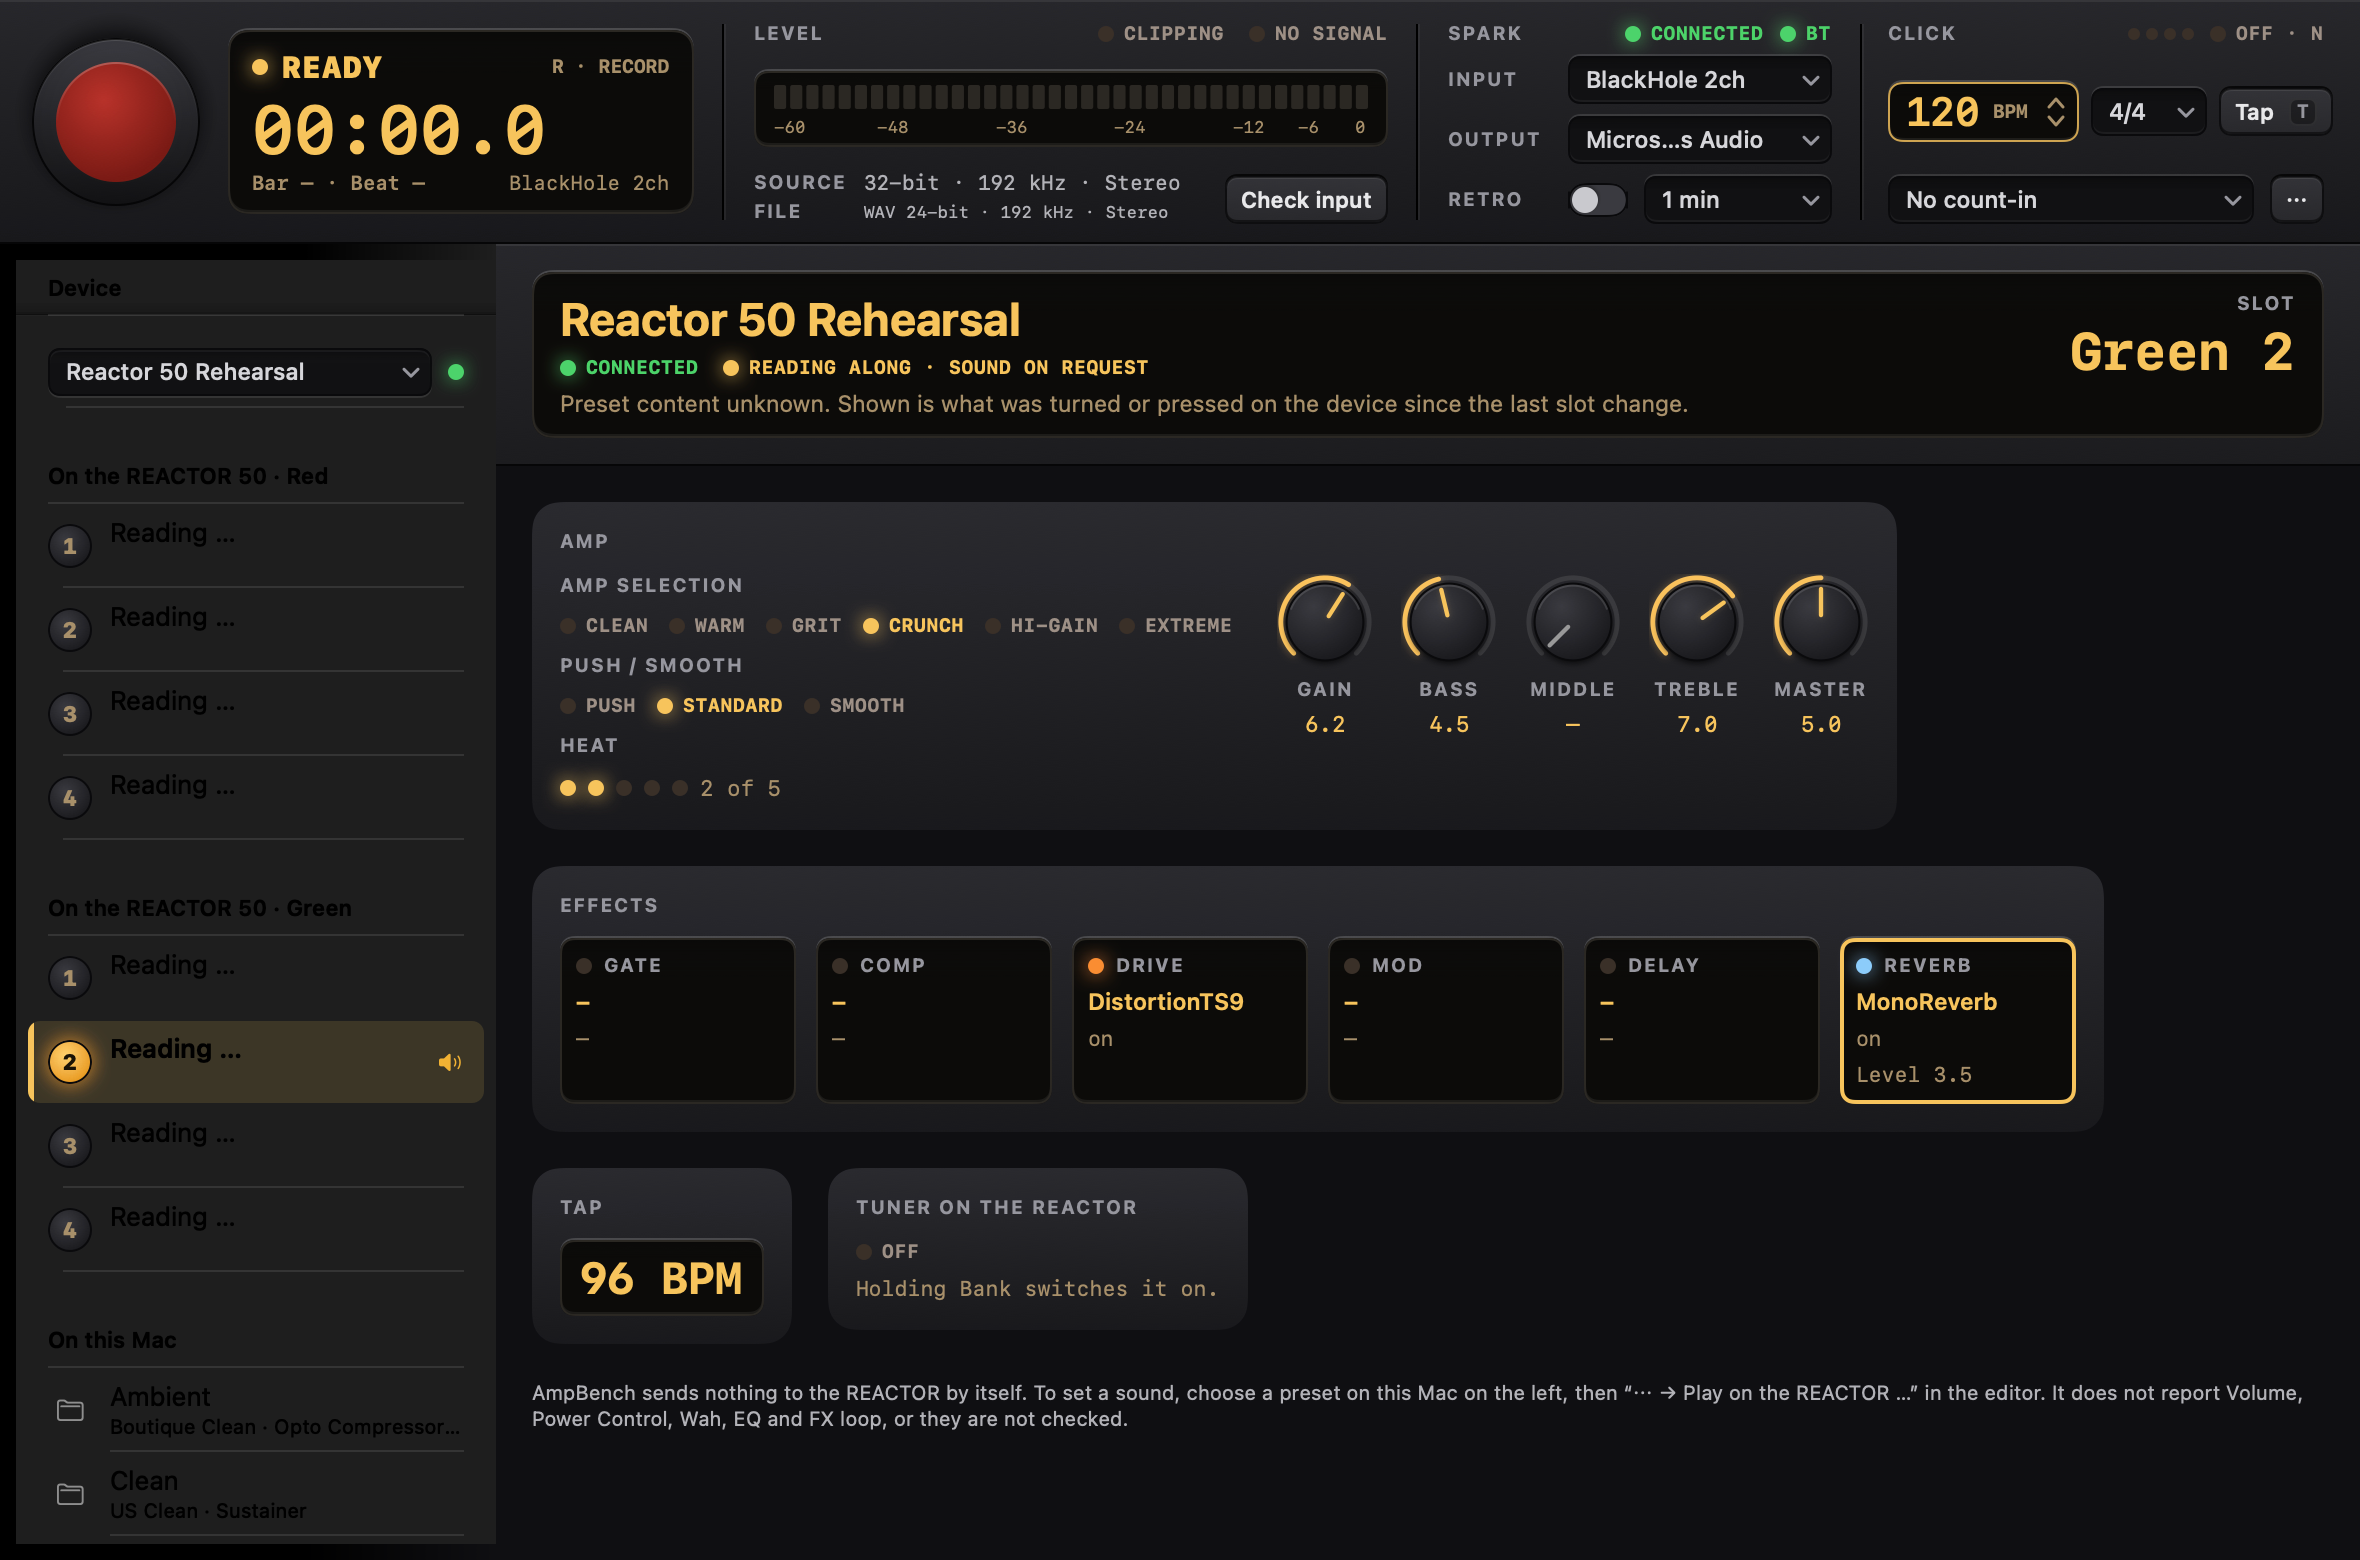
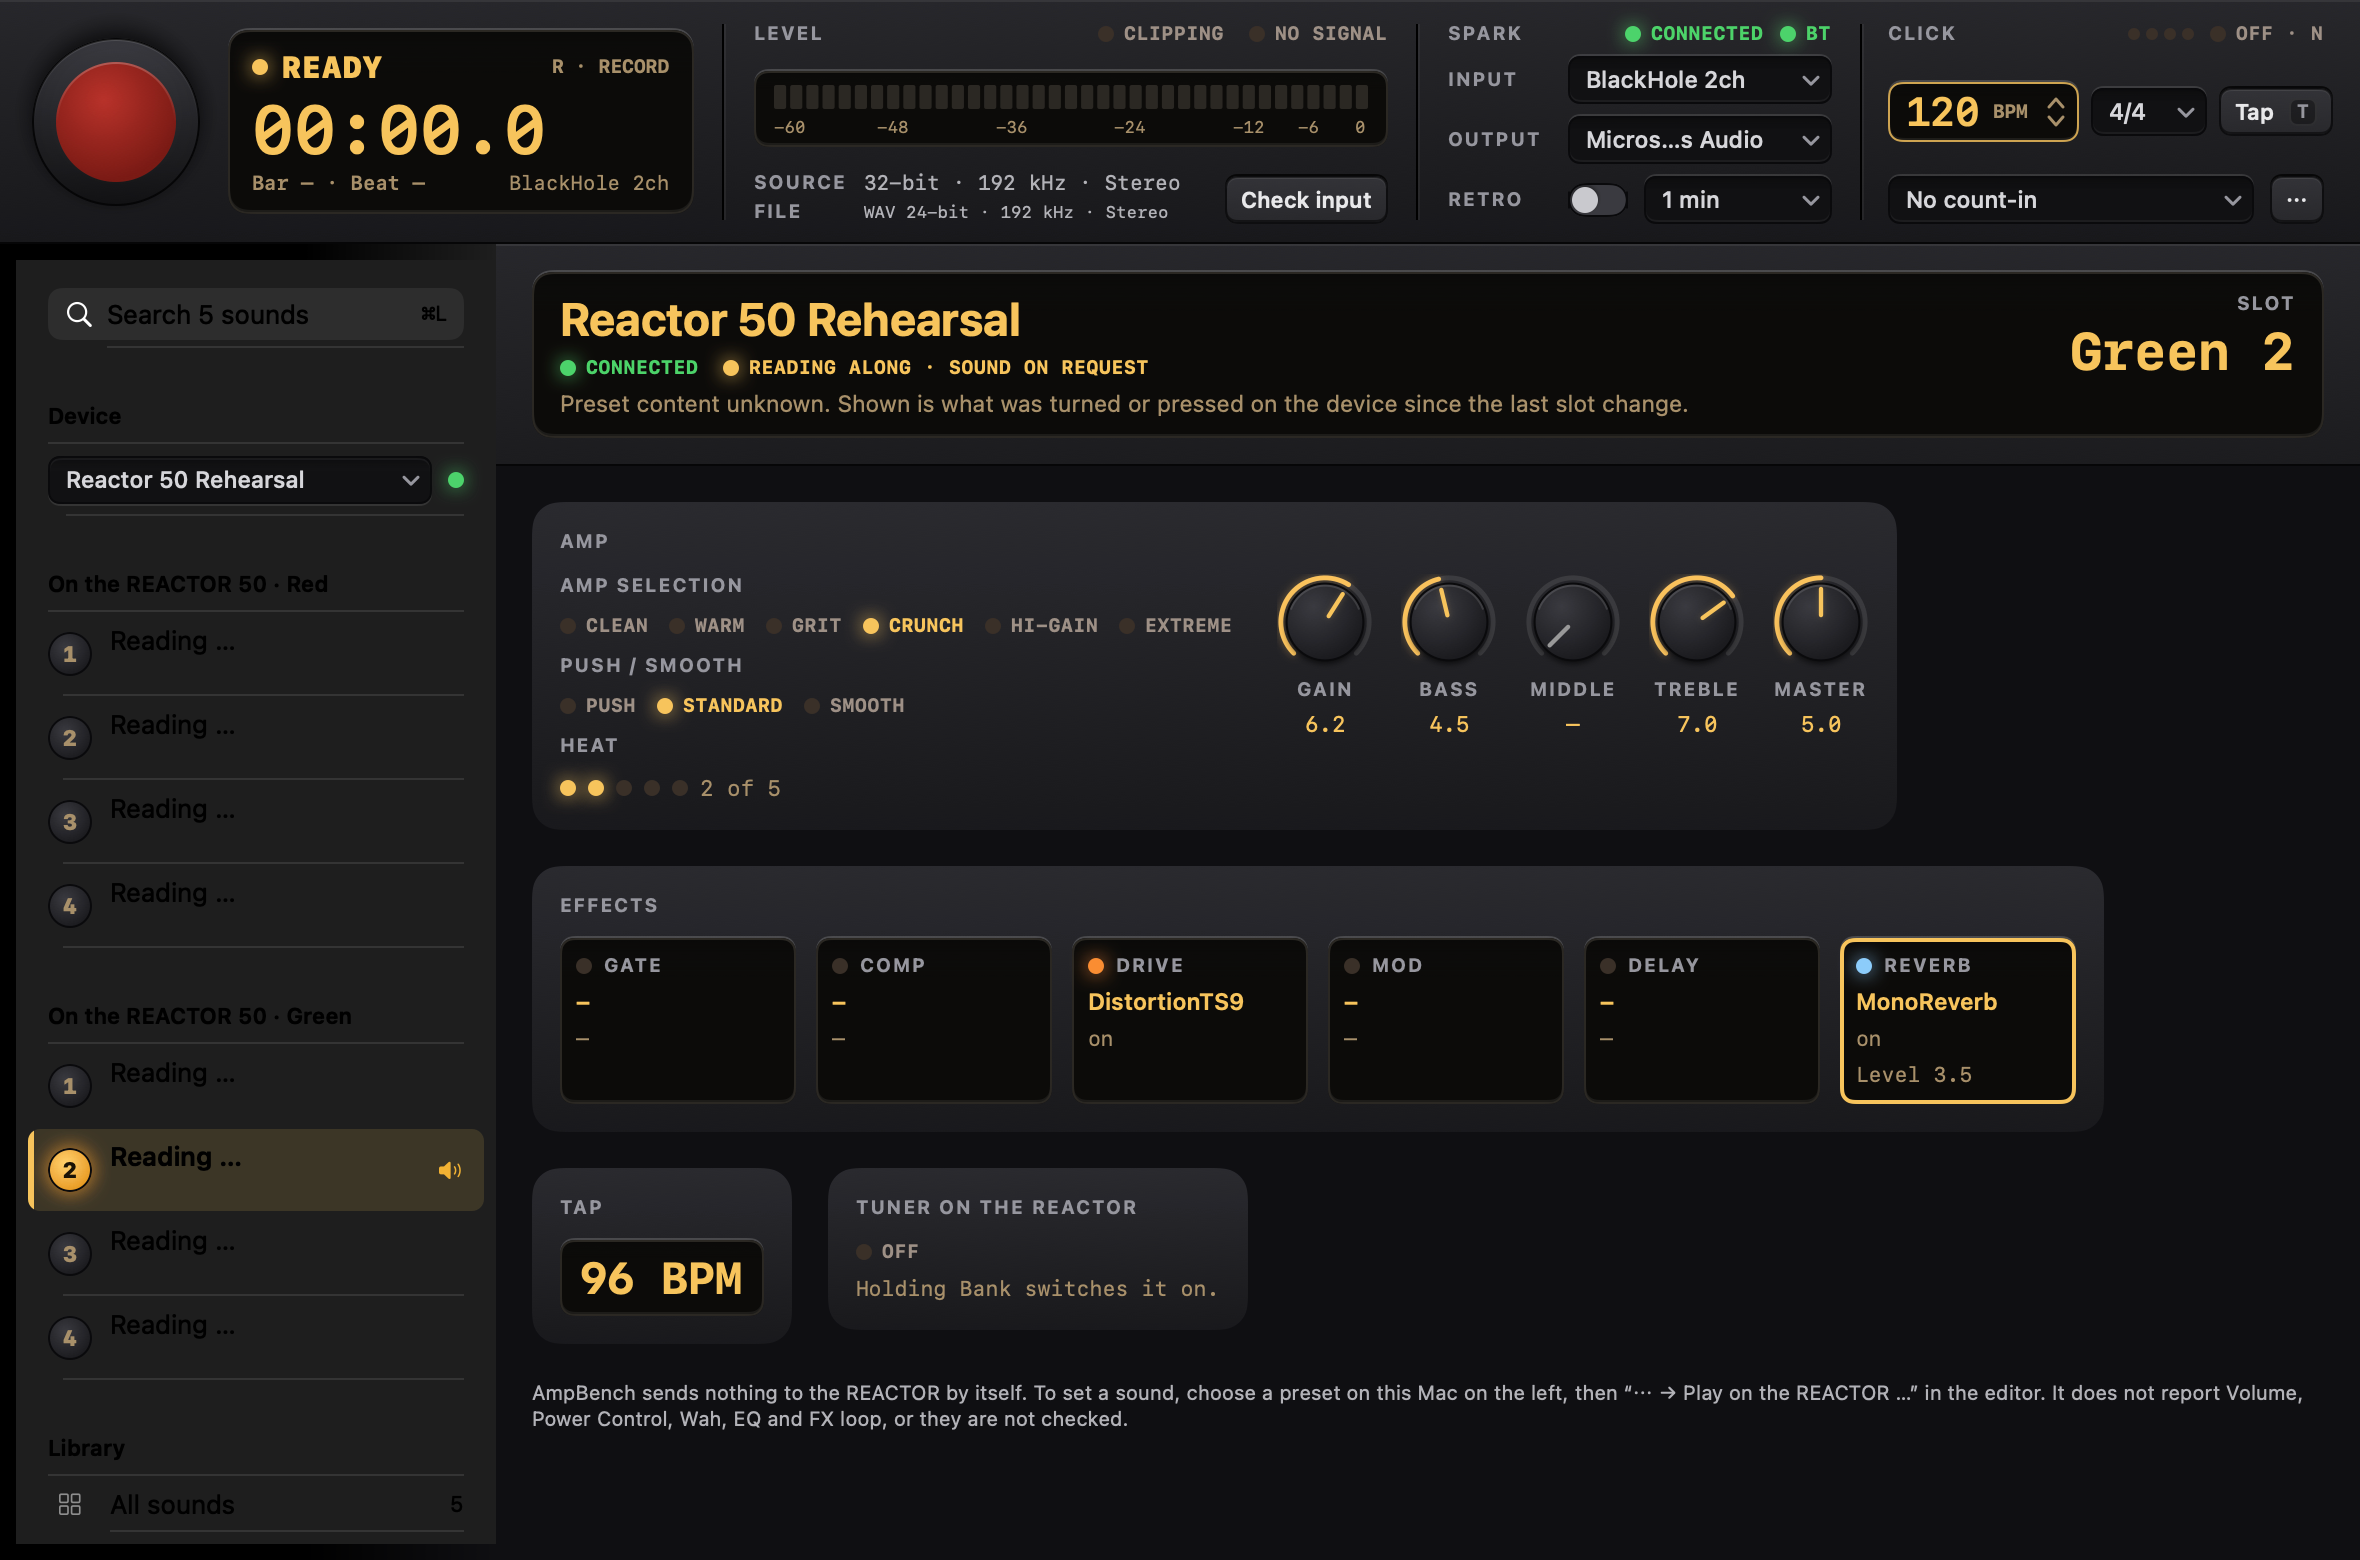
Docs: the library, its keys and design, with new pictures

diff --git a/docs/DESIGN.md b/docs/DESIGN.md
@@ -146,13 +146,33 @@ a variant of `LEDSegments`).
 
 ## Spark Presets: the area Presets
 
-- **Title bar:** the system's sidebar toggle, the title, and the search on the right of the toolbar.
-- **Sidebar:** "On the amp" with four round slot keys (dark with the number in dim amber; the playing slot lit
-  amber with a glow, the number dark, a speaker on the right), the name and the chain summary. "On this Mac" with a
-  folder symbol, "Backups" with a clock and the date of the backup. At the foot: the connection lamp (green when
+- **Title bar:** the system's sidebar toggle and the title. The search moved into the library (2026-11-14).
+- **Sidebar:** short. On top a line drawn like a search field, "Search 92 sounds" with `⌘L` in secondary mono text
+  (not a keycap: keycaps belong to the device and fade on the light desk); it opens the library. "On the amp" with
+  four round slot keys (dark with the number in dim amber; the playing slot lit amber with a glow, the number dark,
+  a speaker on the right), the name and the chain summary. "Favorites" (at most eight) and "Recently used" (five)
+  with a folder symbol. "Library" with lines that open the library filtered: all sounds, each pinned tag, "To
+  listen", "Slot backups", with their count in mono on the right. At the foot: the connection lamp (green when
   connected, amber while searching, dark when Bluetooth cannot be used), device name, firmware, and the "+" key.
   Selection in amber.
-- **Device choice:** the sidebar's first section, "Device": a `DevicePopup` with the chosen device and a `LampDot`
+- **Library** (`LibraryOverlay`, over the whole area, sidebar and editor leave while it shows): a front strip as in
+  `SheetPanel` with the engraved "LIBRARY", the count in amber-dim mono capitals ("14 OF 101 SOUNDS") and a small
+  key "Close" with the keycap "Esc". Below it on the desk a search field and `SegmentTabs` for the grouping (A–Z,
+  Tag, Amp, Origin). Three columns: the filters (216 pt) as a system list with multiple selection, counts in mono;
+  the sounds as a system `Table` with `.amberSelection()`, the chain as `ChainMiniature`, tags in desk amber, the
+  pill "To listen", a star in desk amber for a favorite; the preview (300 pt) with the sound on a small front
+  (`FaceplateSurface`): its name 20 bold amber, chain summary, `ChainMiniature`, the lamps FAVORITE and TO LISTEN,
+  the keys "Hear" (main key) and "Open" with their keycaps; below on the desk a grid of facts with `DeskCaption`,
+  checkboxes, tag chips (`TagChip`, a count each when several are selected), notes, close sounds and pieces. With
+  several selected the front says "12 sounds selected" and the keys act on all; "To the Trash" is a danger key. A
+  status line on the desk counts sounds to listen to and groups of close sounds and names the main keys. No new
+  colors or styles.
+  Two layouts were weighed: this one, and a wall of cards (name, chain in miniature, tags) with the filters as
+  chips above and the preview as a drawer below. The cards look richer but show fewer sounds at once (about 20
+  against 25 rows at 1180 × 780), their chips overflow with one tag per Kemper performance, and keyboard, multiple
+  selection, sorting and VoiceOver would have to be built by hand; the table has them from the system, on the Mac
+  and the iPad.
+- **Device choice:** the sidebar's first section after the search line, "Device": a `DevicePopup` with the chosen device and a `LampDot`
   beside it (green connected, amber nearby, dark not there; the menu says the same in words). The slots below are
   that device's: "On the Spark NEO", or two sections "On the REACTOR 50 · Red" and "· Green" with keys numbered 1–4 per bank.
   It sits at the top, not at the foot, because the foot is missing from window pictures and the slots belong to it.
@@ -234,6 +254,9 @@ The canvas "Spark Apps Design" is intent, not a pixel specification. These diffe
   key (shift is ignored) and `⌘E` renames in both apps, so these keys carry no keycap. Shortcuts were not changed.
 - **List selection** needs AppKit: SwiftUI cannot recolor the selection of a `List` or `Table` on macOS, so
   `.amberSelection()` turns the table's own highlight off and draws the amber tint and bar beneath the rows.
+- **The library replaces the split view while it shows** instead of lying above it: the system sidebar draws
+  parts of itself (section headers, the foot) above anything laid over it. Sidebar and editor keep their state in
+  the model, so they come back unchanged.
 - **Window pictures of Spark Presets** draw the sidebar as a plain list (`--snapshot` only): the system sidebar's
   text is drawn by the window server and does not appear in a cached picture at all. `--library <folder>` fills a
   test folder with the templates, so pictures never show one's own presets.

diff --git a/docs/STUDIO.md b/docs/STUDIO.md
@@ -791,18 +791,15 @@ For every device, without exception:
 - **Library of the presets:** groups have been pinned hashtags since 2026-11-10 (section "Ordering presets").
   Open: assigning by dragging, favorites and rating in the UI, sorting, export, a version history per
   preset; filtering pieces by key and tempo.
-- **Next: the library as an overlay** (the owner's wish, 2026-11-14). With the Kemper import the library grew from
-  a dozen sounds to 92, and the sidebar became one endless list. Planned, not built:
-  - One large view over the window, opened with a key and from the sidebar, closed with Esc; not a second window
-    and not a new area. Search at once, filters (tags, amp model, origin such as Kemper, AI Sound or slot backup,
-    "not yet heard"), a dense grid or table instead of one tall column, grouping by tag, piece or amp, and a
-    preview of the chosen sound with "play on the amp" and "open in the editor".
-  - The sidebar becomes short: the amp's slots, a few pinned or recent sounds, the way into the library.
-  - Maintenance in the same view: several sounds at once (tag, untag, rename, Trash), duplicates and near
-    duplicates, a mark "heard" for sounds that are approximations, slot backups apart from sounds, and which
-    pieces use a sound before it is removed.
-  - Rules: everything by keyboard; the same view on the iPad; a new field of a sound goes into its JSON file so
-    that older versions and the Linux app ignore it and the sound store carries it; Linux gets the same view.
+- **The library as an overlay** (the owner's wish, 2026-11-14), built on the Mac and the iPad on 2026-11-14 with
+  about a hundred made-up sounds; see MANUAL.md "The library" and DESIGN.md. Decisions: a table rather than a wall
+  of cards (keyboard, multiple selection, sorting, VoiceOver from the system); the mark "to listen" is the tag
+  `#listen`, not a new field, because older versions and the Linux app rewrite a preset file with the fields they
+  know and would drop a new one; favorites are the existing field `favorite`; recently used sounds are kept per
+  device in the preferences. Grouping by piece was left out: the pieces live in the Mac's recordings, and a Kemper
+  song's sounds already share a tag. Open: the Linux app's library view (the laptop had uncommitted work in its
+  main window); group titles in the iPad's table (iPadOS draws sections without their header); scrolling the
+  table to a sound chosen from "Close sounds"; trying it with the real 92 sounds and the amp.
 - **Kemper import:** the author's backup is in the real library since 2026-11-14 (81 presets, 20 pieces, kinds as
   guessed). Listen to the translated sounds on the Spark and improve the amp rules after that (above all
   Dream Weaver, Divided by 13, Naylor). The Linux app can do the import and hashtags since 2026-11-10

diff --git a/docs/DEVELOPMENT.md b/docs/DEVELOPMENT.md
@@ -161,6 +161,8 @@ in one sign.
 | ![Record, dark](pictures/record-dark.png) | ![Record, light](pictures/record-light.png) |
 | ![While recording](pictures/record-recording-dark.png) | ![At its smallest size](pictures/record-smallest-light.png) |
 | ![Presets, dark](pictures/presets-dark.png) | ![Presets, light](pictures/presets-light.png) |
+| ![Library, dark](pictures/library-dark.png) | ![Library, light](pictures/library-light.png) |
+| ![Library, several selected, by tag](pictures/library-maintenance-dark.png) | ![Library, close sounds, smallest window](pictures/library-smallest-dark.png) |
 | ![Tuner, dark](pictures/tuner-dark.png) | ![Tuner with strobe, light](pictures/tuner-strobe-light.png) |
 | ![Tuner, in tune](pictures/tuner-in-tune-dark.png) | ![Tuner at its smallest size](pictures/tuner-smallest-dark.png) |
 | ![Tuner of the amp, dark](pictures/tuner-amp-dark.png) | ![Tuner of the amp, light](pictures/tuner-amp-light.png) |
@@ -176,6 +178,21 @@ The pictures come from the app's own snapshot modes, with a test library of synt
 .build/debug/AmpBench --library /tmp/studio-presets --offline --demo-devices reactor --appearance dark \
     --size 1180x780 --open slot:6 --delay 7 --snapshot /tmp/devices-reactor-dark.png --quit
 ```
+
+The library's pictures use about a hundred made-up sounds (`--made-up-sounds`, only with `--library`: invented
+songs as a Kemper import writes them, with pieces, recipes, slot backups, favorites and close sounds):
+
+```bash
+.build/debug/AmpBench --library /tmp/studio-library --made-up-sounds --demo-devices mini --appearance dark \
+    --size 1180x780 --library-open all --library-select "Basis 1 · 2" --delay 3 --snapshot /tmp/library-dark.png --quit
+.build/debug/AmpBench --library /tmp/studio-library --made-up-sounds --demo-devices mini --appearance dark \
+    --size 1180x780 --library-open "#song" --library-group tag --library-select "Copper Sky Chorus,Copper Sky Intro" \
+    --delay 3 --snapshot /tmp/library-maintenance-dark.png --quit
+```
+
+`--library-open` takes `all`, `favorites`, `toListen`, `close`, `backups` or `#tag`; `--library-search <text>`,
+`--library-group none|tag|amp|origin` and `--library-select <name>[,<name>…]` set it up. A test library does not
+remember the grouping or the recently used sounds, so pictures never change the app's own preferences.
 
 `--demo-devices neo|mini|reactor` (only with `--library`) shows simulated devices instead of Bluetooth. On a German
 system, add `-AppleLanguages '(en)' -AppleLocale en_US` to every command so the pictures come out in English.
